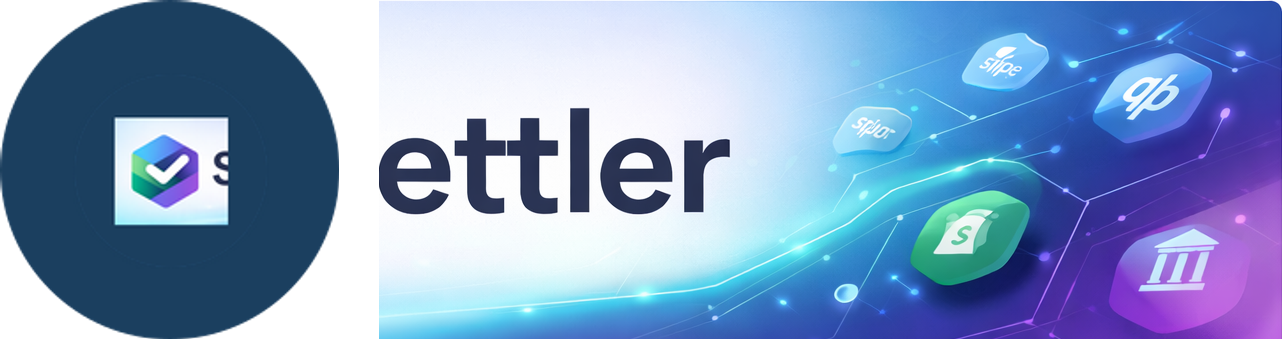
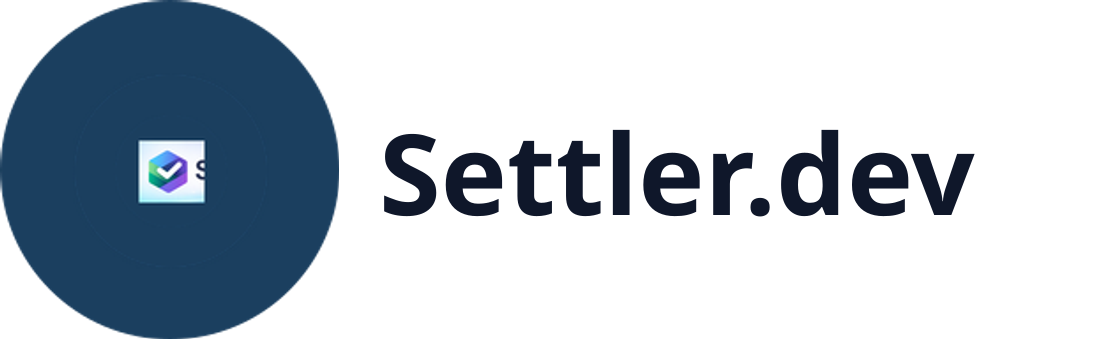
fix(brand): remove bitmap wordmark; use Settler.dev text + official mark
- Replace BrandWordmark raster (wrong MELHENA text) with semantic text lockup
- BrandLockup horizontal: mark + text; stacked auth uses mark + Settler
- Regenerate OG/lockup PNGs with vector Settler.dev text; delete wordmark.png
- Update image-config dimensions, docs (IA/STITCH), Playwright + Jest tests

diff --git a/packages/web/src/components/brand/BrandLockup.tsx b/packages/web/src/components/brand/BrandLockup.tsx
@@ -1,6 +1,4 @@
-import Image, { type ImageProps } from "next/image";
 import { cn } from "@/lib/utils";
-import { BRAND_LOCKUP_PNG } from "./brand-assets";
 import { BrandMark } from "./BrandMark";
 import { BrandWordmark } from "./BrandWordmark";
 
@@ -11,8 +9,9 @@ type HorizontalLockupProps = {
   alt?: string;
   className?: string;
   priority?: boolean;
-  sizes?: string;
-} & Omit<ImageProps, "src" | "width" | "height" | "alt">;
+  /** Horizontal: mark + text wordmark (default). Stacked uses format="word". */
+  wordmarkFormat?: "product" | "word";
+};
 
 type StackedLockupProps = {
   orientation: "stacked";
@@ -22,6 +21,7 @@ type StackedLockupProps = {
   markClassName?: string;
   wordmarkClassName?: string;
   priority?: boolean;
+  wordmarkFormat?: "product" | "word";
 };
 
 export type BrandLockupProps = HorizontalLockupProps | StackedLockupProps;
@@ -35,6 +35,7 @@ export function BrandLockup(props: BrandLockupProps) {
       markClassName,
       wordmarkClassName,
       priority,
+      wordmarkFormat = "word",
     } = props;
     return (
       <div className={cn("flex flex-col items-center", stackedGapClassName, className)}>
@@ -43,27 +44,27 @@ export function BrandLockup(props: BrandLockupProps) {
           className={cn("h-14 w-14 sm:h-16 sm:w-16", markClassName)}
           priority={priority}
         />
-        <BrandWordmark
-          alt={alt}
-          className={cn("h-8 w-auto max-w-[min(100%,280px)] sm:h-9", wordmarkClassName)}
-          priority={priority}
-        />
+        <BrandWordmark alt={alt} format={wordmarkFormat} className={wordmarkClassName} />
       </div>
     );
   }
 
-  const { alt = "Settler.dev", className, priority, sizes, ...imageRest } = props;
+  const { alt = "Settler.dev", className, priority, wordmarkFormat = "product" } = props;
 
   return (
-    <Image
-      src={BRAND_LOCKUP_PNG.webpSrc ?? BRAND_LOCKUP_PNG.src}
-      width={BRAND_LOCKUP_PNG.width}
-      height={BRAND_LOCKUP_PNG.height}
-      alt={alt}
-      className={cn("max-h-full w-auto max-w-full object-contain object-left dark:invert", className)}
-      priority={priority}
-      sizes={sizes}
-      {...imageRest}
-    />
+    <div
+      className={cn(
+        "inline-flex max-h-full min-h-8 w-auto max-w-full flex-nowrap items-center gap-2 sm:gap-3",
+        className
+      )}
+    >
+      <BrandMark
+        alt=""
+        className="h-7 w-7 shrink-0 sm:h-8 sm:w-8"
+        priority={priority}
+        sizes="(max-width: 640px) 28px, 32px"
+      />
+      <BrandWordmark alt={alt} format={wordmarkFormat} />
+    </div>
   );
 }

diff --git a/packages/web/src/lib/images/image-config.ts b/packages/web/src/lib/images/image-config.ts
@@ -96,7 +96,7 @@ const SETTLER_IMAGES_CONFIG = {
 
   logoMain: {
     path: "/brand/settler/settler-lockup-horizontal-light.png",
-    width: 1282,
+    width: 1099,
     height: 339,
     alt: "Settler.dev",
     category: "logo" as const,
@@ -105,7 +105,7 @@ const SETTLER_IMAGES_CONFIG = {
   },
   logoHorizontalLight: {
     path: "/brand/settler/settler-lockup-horizontal-light.png",
-    width: 1282,
+    width: 1099,
     height: 339,
     alt: "Settler.dev",
     category: "logo" as const,
@@ -114,7 +114,7 @@ const SETTLER_IMAGES_CONFIG = {
   },
   logoHorizontalDark: {
     path: "/brand/settler/settler-lockup-horizontal-light.png",
-    width: 1282,
+    width: 1099,
     height: 339,
     alt: "Settler.dev",
     category: "logo" as const,
@@ -123,7 +123,7 @@ const SETTLER_IMAGES_CONFIG = {
   },
   logoStackedLight: {
     path: "/brand/settler/settler-lockup-horizontal-light.png",
-    width: 1282,
+    width: 1099,
     height: 339,
     alt: "Settler.dev",
     category: "logo" as const,
@@ -147,12 +147,13 @@ const SETTLER_IMAGES_CONFIG = {
     mimeType: "image/png",
   },
   logoWordmarkLight: {
-    path: "/brand/settler/wordmark.png",
-    width: 903,
+    path: "/brand/settler/settler-lockup-horizontal-light.png",
+    width: 1099,
     height: 339,
     alt: "Settler.dev",
     category: "logo" as const,
     mimeType: "image/png",
+    webpPath: "/brand/settler/settler-lockup-horizontal-light.webp",
   },
   logoSEO: {
     path: "/opengraph-image.png",

diff --git a/packages/web/src/components/brand/BrandWordmark.tsx b/packages/web/src/components/brand/BrandWordmark.tsx
@@ -1,26 +1,33 @@
-import Image, { type ImageProps } from "next/image";
 import { cn } from "@/lib/utils";
-import { BRAND_WORDMARK_PNG } from "./brand-assets";
 
-export type BrandWordmarkProps = Omit<ImageProps, "src" | "width" | "height" | "alt"> & {
+export type BrandWordmarkProps = {
   alt?: string;
+  className?: string;
+  /** Word-only (stacked auth) vs product URL */
+  format?: "product" | "word";
 };
 
+/**
+ * Text wordmark — avoids shipping a wrong raster wordmark; pairs with `BrandMark`.
+ */
 export function BrandWordmark({
   alt = "Settler.dev",
   className,
-  sizes,
-  ...rest
+  format = "product",
 }: BrandWordmarkProps) {
+  const text = format === "word" ? "Settler" : "Settler.dev";
   return (
-    <Image
-      src={BRAND_WORDMARK_PNG.src}
-      width={BRAND_WORDMARK_PNG.width}
-      height={BRAND_WORDMARK_PNG.height}
-      alt={alt}
-      className={cn("dark:invert", className)}
-      sizes={sizes}
-      {...rest}
-    />
+    <span
+      title={alt}
+      className={cn(
+        "inline-block font-sans font-semibold tracking-tight text-foreground antialiased select-none",
+        format === "product"
+          ? "text-[clamp(1.125rem,5vw,1.75rem)] leading-none"
+          : "text-[clamp(1.25rem,6vw,2rem)] leading-none",
+        className
+      )}
+    >
+      {text}
+    </span>
   );
 }

diff --git a/tests/ui/landing.spec.ts b/tests/ui/landing.spec.ts
@@ -225,17 +225,19 @@ test.describe("Landing page reality pass", () => {
   test("logo renders in dark mode", async ({ page }) => {
     await page.goto("/");
 
-    // Logo should render in light mode (Next/Image may optimize URL; assert alt + visibility)
-    const logo = page.getByRole("img", { name: "Settler.dev" }).first();
-    await expect(logo).toBeVisible();
+    // Lockup is mark (decorative img) + text wordmark inside the home link
+    const homeBrand = page
+      .getByRole("navigation", { name: "Main navigation" })
+      .getByRole("link", { name: "Settler.dev homepage" });
+    await expect(homeBrand).toBeVisible();
+    await expect(homeBrand.getByText("Settler.dev", { exact: true })).toBeVisible();
 
     // Switch to dark mode
     const toggle = page.getByRole("button", { name: "Toggle dark mode" });
     await toggle.click();
     await expect(page.locator("html")).toHaveClass(/dark/);
 
-    // Stacked logo should remain visible in dark mode
-    await expect(logo).toBeVisible();
+    await expect(homeBrand).toBeVisible();
 
     // Reset to light
     await toggle.click();

diff --git a/packages/web/src/components/brand/brand-assets.ts b/packages/web/src/components/brand/brand-assets.ts
@@ -4,19 +4,6 @@
  */
 import { SETTLER_BRAND } from "@/lib/brand/assets";
 
-export const BRAND_LOCKUP_PNG = {
-  src: SETTLER_BRAND.lockupHorizontalLight.src,
-  width: SETTLER_BRAND.lockupHorizontalLight.width,
-  height: SETTLER_BRAND.lockupHorizontalLight.height,
-  webpSrc: SETTLER_BRAND.lockupHorizontalLight.webpSrc,
-} as const;
-
-export const BRAND_WORDMARK_PNG = {
-  src: SETTLER_BRAND.wordmarkLight.src,
-  width: SETTLER_BRAND.wordmarkLight.width,
-  height: SETTLER_BRAND.wordmarkLight.height,
-} as const;
-
 export const BRAND_MARK_PNG = {
   src: SETTLER_BRAND.markCircularLight.src,
   width: SETTLER_BRAND.markCircularLight.width,

diff --git a/packages/web/src/lib/brand/__tests__/assets.test.ts b/packages/web/src/lib/brand/__tests__/assets.test.ts
@@ -2,6 +2,11 @@ import { SETTLER_BRAND } from "../assets";
 import { SETTLER_IMAGES } from "@/lib/images/image-config";
 
 describe("canonical brand assets", () => {
+  it("horizontal lockup dimensions match generated raster (1099×339)", () => {
+    expect(SETTLER_BRAND.lockupHorizontalLight.width).toBe(1099);
+    expect(SETTLER_BRAND.lockupHorizontalLight.height).toBe(339);
+  });
+
   it("horizontal lockup points at generated brand folder files", () => {
     expect(SETTLER_BRAND.lockupHorizontalLight.src).toBe(
       "/brand/settler/settler-lockup-horizontal-light.png"

diff --git a/packages/web/src/lib/brand/assets.ts b/packages/web/src/lib/brand/assets.ts
@@ -9,14 +9,7 @@ export const SETTLER_BRAND = {
   lockupHorizontalLight: {
     src: "/brand/settler/settler-lockup-horizontal-light.png",
     webpSrc: "/brand/settler/settler-lockup-horizontal-light.webp",
-    width: 1282,
-    height: 339,
-    alt: "Settler.dev",
-  },
-  /** Wordmark only — narrow placements, stacked lockup text row */
-  wordmarkLight: {
-    src: "/brand/settler/wordmark.png",
-    width: 903,
+    width: 1099,
     height: 339,
     alt: "Settler.dev",
   },

diff --git a/docs/brand/asset-map.md b/docs/brand/asset-map.md
@@ -1,35 +1,38 @@
 # Settler.dev — canonical brand asset map
 
-Source inputs under `packages/web/public/brand/settler/` are authoritative rasters. Derived icons, App Router metadata images, and the composed horizontal lockup are produced by:
+The **circular mark** (`favicon-192x192.png`) is the master raster input. The generation script rescales it for PWA icons and builds **SEO/OG lockup PNGs** with **vector “Settler.dev” text** (no bitmap wordmark — avoids stock/third-party wordmark drift).
 
 ```bash
 cd packages/web && pnpm run generate:brand-assets
 ```
 
-Do not commit placeholder or third-party stock lockups. The previous `Settler-logo.png` horizontal file (wrong wordmark) was removed; the horizontal lockup is now composed from the official wordmark + circular mark.
-
 ## Inventory
 
 | File | Logo type | Usage | Theme | Raster / vector | References |
 |------|-----------|-------|-------|-----------------|------------|
-| `wordmark.png` | Wordmark only, light | `BrandWordmark`, script input for lockup | Light (use `dark:invert` in UI where needed) | Raster | `src/lib/brand/assets.ts`, `BrandWordmark.tsx`, `generate-brand-assets.mjs` |
-| `favicon-192x192.png` | Icon / circular mark (navy disc) | Master for favicon pipeline, `BrandMark`, compact mark | Light | Raster | `brand-assets.ts`, `image-config` (icon keys), `manifest.json`, `generate-brand-assets.mjs` input |
-| `settler-lockup-horizontal-light.png` | Horizontal lockup (mark + wordmark) | Nav, footer, SEO `logoMain`, structured data | Light (`dark:invert` on `BrandLockup`) | Raster | `brand-assets.ts`, `BrandLockup` horizontal, `image-config` logo keys |
-| `settler-lockup-horizontal-light.webp` | Same as PNG | Next/Image preferred src for horizontal lockup | Same | Raster | `brand-assets.ts`, `image-config` `webpPath` |
+| *(in-app)* `BrandWordmark` | Text wordmark “Settler” / “Settler.dev” | Nav, footer, auth stacked lockup | Follows `text-foreground` | Vector (DOM) | `BrandWordmark.tsx`, `BrandLockup.tsx` |
+| `favicon-192x192.png` | Icon / circular mark (navy disc) | Master input; `BrandMark`; favicon pipeline | Light | Raster | `brand-assets.ts`, `image-config`, `manifest.json`, `generate-brand-assets.mjs` |
+| `settler-lockup-horizontal-light.png` | Horizontal lockup (mark + “Settler.dev” text rendered to PNG) | SEO `logoMain`, structured data, absolute logo URLs | Light canvas | Raster (generated) | `SETTLER_BRAND.lockupHorizontalLight`, `image-config` logo keys |
+| `settler-lockup-horizontal-light.webp` | WebP variant of lockup | Same | Same | Raster | `webpPath` in `image-config` / `SETTLER_BRAND` |
 | `favicon-512x512.png` | 1:1 icon @512 | Manifest, PWA | Light | Raster | `manifest.json`, `image-config` |
-| `favicon.png` | 1:1 icon @512 (alias) | Legacy / `faviconPng` key | Light | Raster | `image-config` |
+| `favicon.png` | 1:1 icon @512 (alias) | `faviconPng` key | Light | Raster | `image-config` |
 | `app-icon.png` | Maskable 512 | `purpose: maskable` in manifest | Light | Raster | `manifest.json` |
 | `packages/web/src/app/icon.png` | Favicon route | Browser tab, `/favicon.ico` redirect | Light | Raster | `next.config.js` redirects, metadata |
 | `packages/web/src/app/apple-icon.png` | Apple touch | iOS home screen, metadata `apple` | Light | Raster | `layout.tsx`, `image-config.appleTouchIcon` |
 | `packages/web/src/app/opengraph-image.png` | OG default | Open Graph | Light canvas | Raster | `layout.tsx` openGraph, `getImageUrl('ogImage')` |
 | `packages/web/src/app/twitter-image.png` | Twitter card | Twitter previews | Same as OG | Raster | `layout.tsx` twitter |
 
+## Removed / do not reintroduce
+
+- `wordmark.png` (third-party / wrong text) — **removed**; use text `BrandWordmark` or generated lockup only.
+- `public/assets/images/Settler-logo.png` — **removed** (wrong horizontal lockup).
+
 ## Dark surfaces
 
-There is no separate reversed (negative) logo file in-repo. Components apply `dark:invert` on raster marks/wordmarks/horizontal lockup for contrast on dark backgrounds. If a dedicated negative asset is added later, extend `SETTLER_BRAND` and switch dark-theme branches in brand components.
+In-app: `BrandWordmark` uses theme text color. `BrandMark` may use `dark:invert` for the raster mark on dark backgrounds. SEO/OG rasters are light-background; social crawlers do not use dark mode.
 
 ## Code entry points
 
 - Dimensions and paths: `packages/web/src/lib/brand/assets.ts`
-- Next/Image wrappers: `packages/web/src/components/brand/*`
+- Components: `packages/web/src/components/brand/*`
 - Metadata and absolute URLs: `packages/web/src/lib/images/image-config.ts`

diff --git a/docs/marketing/IA.md b/docs/marketing/IA.md
@@ -114,14 +114,13 @@ All feature pages share:
 
 ## Brand Assets
 
-| Asset                 | Path                                      | Usage                            |
-| --------------------- | ----------------------------------------- | -------------------------------- |
-| Logo (light mode)     | `/brand/settler/logo-horizontal.svg`      | Navigation, footer — light theme |
-| Logo (dark mode)      | `/brand/settler/logo-horizontal-dark.svg` | Navigation, footer — dark theme  |
-| Favicon               | `/brand/settler/logo-icon.svg`            | Browser tab                      |
-| Favicon (PWA)         | `/brand/settler/favicon-192x192.svg`      | Metadata, PWA                    |
-| OG Image              | `/opengraph-image`                        | Social preview                   |
-| Twitter Card          | `/opengraph-image`                        | Twitter                          |
+| Asset                 | Path / implementation                                      | Usage                            |
+| --------------------- | ---------------------------------------------------------- | -------------------------------- |
+| Logo (in-app)         | `SettlerLogo` → `BrandLockup` (mark PNG + text wordmark)   | Navigation, footer — all themes  |
+| Favicon               | `/icon.png` (App Router); `/favicon.ico` → `/icon.png`     | Browser tab                      |
+| Favicon (PWA)         | `/brand/settler/favicon-192x192.png`, `manifest.json`     | Metadata, PWA                    |
+| OG Image              | `/opengraph-image`                                         | Social preview                   |
+| Twitter Card          | `/twitter-image`                                           | Twitter                          |
 | Hero Visual           | `/illustrations/hero-visual.svg`          | Homepage hero                    |
 | How it works          | `/illustrations/how-settler-works.svg`    | How it works page                |
 | Feature illustrations | `/illustrations/feature-*.svg`            | Dev workflow steps               |

diff --git a/docs/brand/brand-assets.md b/docs/brand/brand-assets.md
@@ -2,24 +2,18 @@
 
 ## Source of truth
 
-Authoritative rasters live in `packages/web/public/brand/settler/`:
+- **In-app wordmark:** `BrandWordmark` renders **“Settler”** / **“Settler.dev”** as text (no bitmap wordmark file).
+- **Mark:** `packages/web/public/brand/settler/favicon-192x192.png` — circular mark on brand navy; this file is the **input** to `generate-brand-assets.mjs`.
 
-- `wordmark.png` — wordmark-only (Settler)
-- `favicon-192x192.png` — circular mark on brand navy (also feeds the generation pipeline)
-
-The **horizontal lockup** is **generated** as `settler-lockup-horizontal-light.png` (+ `.webp`) by composing the wordmark and scaled mark — it is not hand-maintained as a separate upload.
-
-Regenerate all derived rasters and App Router metadata images:
+The script generates: favicon sizes, maskable `app-icon.png`, `settler-lockup-horizontal-light.png` (+ `.webp`) for **SEO/structured data** (mark + vector text rasterized), `opengraph-image.png`, `twitter-image.png`, `icon.png`, `apple-icon.png`.
 
 ```bash
 cd packages/web && pnpm run generate:brand-assets
 ```
 
-This writes circular favicon sizes, maskable `app-icon.png`, `opengraph-image.png`, `twitter-image.png`, `icon.png`, `apple-icon.png`, and the horizontal lockup files.
-
 ## Active asset map
 
-See **`docs/brand/asset-map.md`** for filenames, usage, and reference locations.
+See **`docs/brand/asset-map.md`**.
 
 ## Component governance
 
@@ -29,4 +23,4 @@ See **`docs/brand/asset-map.md`** for filenames, usage, and reference locations.
 
 ## Legacy
 
-Root-level `public/logo.svg`, `public/favicon.svg`, and the removed wrong horizontal file `public/assets/images/Settler-logo.png` must not return. Requests to `/favicon.ico` and `/favicon.svg` redirect to `/icon.png` via Next.js redirects.
+Wrong files `Settler-logo.png` and `wordmark.png` (stock wordmark) must not return. `/favicon.ico` and `/favicon.svg` redirect to `/icon.png` via Next.js redirects.

diff --git a/docs/marketing/STITCH_RECONCILIATION.md b/docs/marketing/STITCH_RECONCILIATION.md
@@ -174,10 +174,9 @@ packages/web/src/app/
 
 ### Changes Made This Pass
 
-1. **Brand canonicalization update** — Active logo sources now resolve from `/public/brand/settler/` via the shared `SettlerLogo` component (`logo-horizontal.svg` and `logo-horizontal-dark.svg`).
+1. **Brand canonicalization update** — (Superseded) Earlier notes referenced SVG paths under `/brand/settler/`; the canonical implementation is `SettlerLogo` / `BrandLockup` with rasters under `/brand/settler/` and a text wordmark. See `docs/brand/asset-map.md`.
 
-2. **`Navigation.tsx`** — Logo now conditionally renders light (`/brand/settler/logo-horizontal.svg`, `dark:hidden`) and
-   dark (`/brand/settler/logo-horizontal-dark.svg`, `hidden dark:block`) variants. Added "Features" dropdown to desktop nav
+2. **`Navigation.tsx`** — Logo uses the shared `SettlerLogo` component. Added "Features" dropdown to desktop nav
    exposing: How It Works, Replay Lab, Proof Explorer. Added Features section to mobile sheet nav.
    Fixed `/security` nav link → now points directly at `/security-and-audit`.
 
